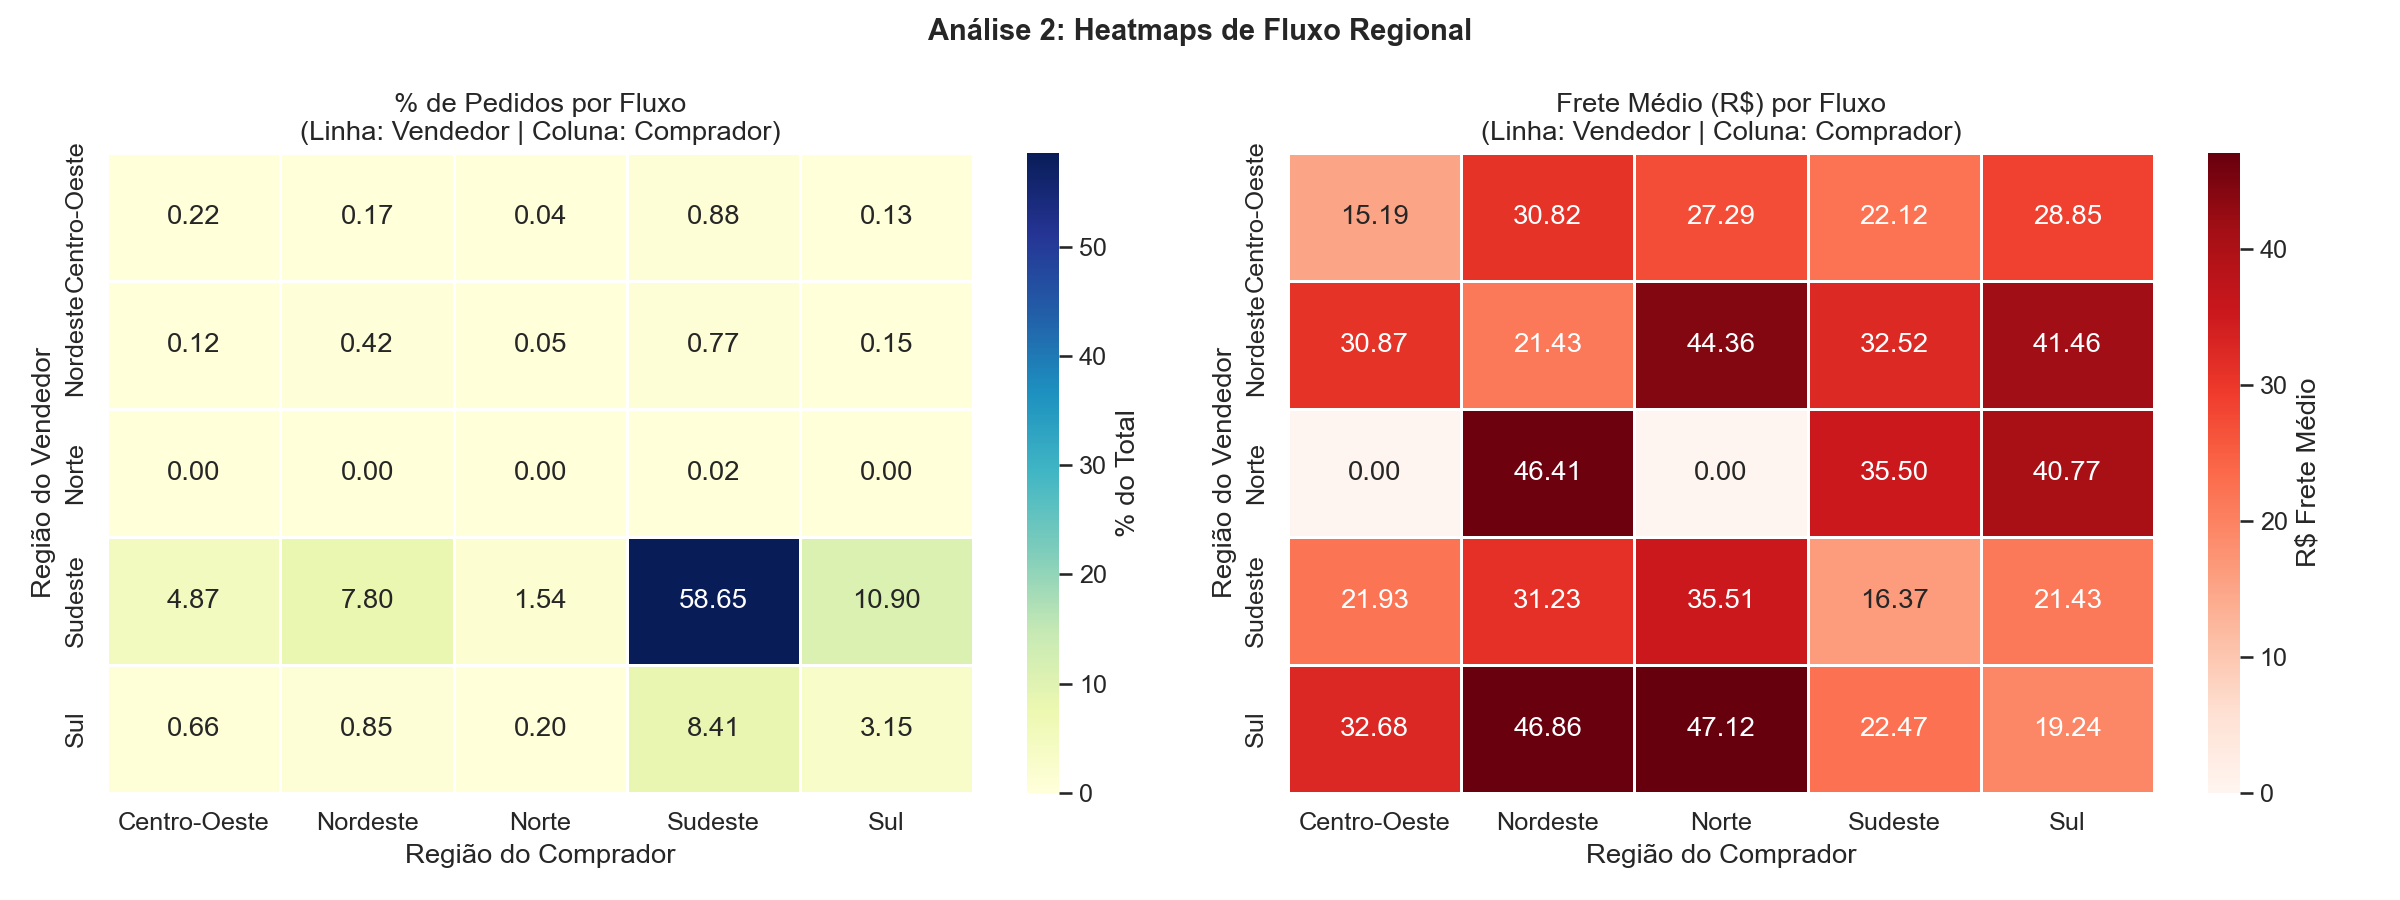
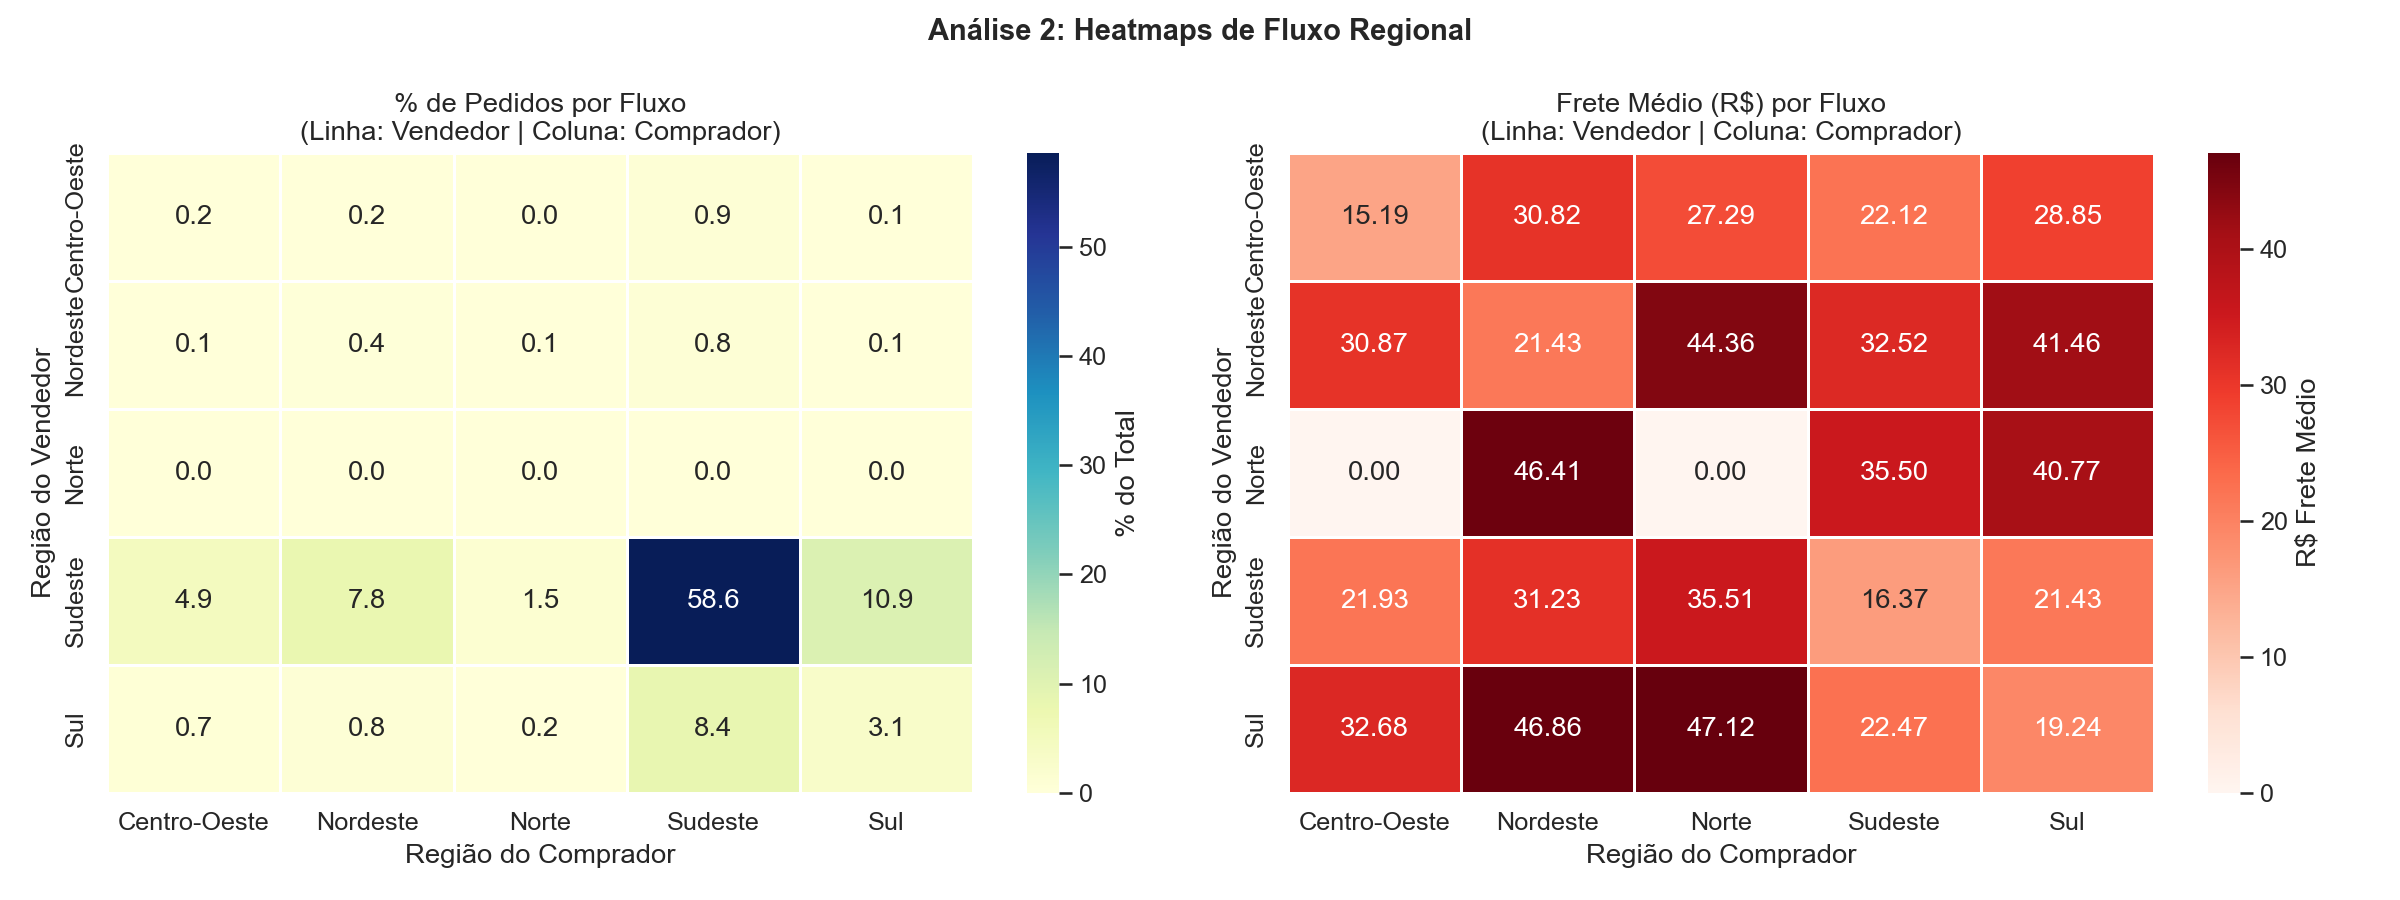
atualização

diff --git a/analise_regional.py b/analise_regional.py
@@ -1,3 +1,4 @@
+import sys
 import pandas as pd
 import numpy as np
 import matplotlib.pyplot as plt
@@ -5,6 +6,7 @@ import matplotlib.ticker as mticker
 import seaborn as sns
 import os
 from src.utils import get_region
+
 # ==============================================================================
 # CARGA E PROCESSAMENTO DOS DADOS
 # ==============================================================================
@@ -101,9 +103,10 @@ def analise_fluxo_e_frete(df):
     print("ANÁLISE 2: Fluxo de Frete entre Regiões (Top 10 por volume)")
     print("="*60)
     print(fluxo.sort_values('total_vendas', ascending=False).head(10).to_string(index=False))
+    print("\n--- Fluxo Regional Completo ---")
+    print(fluxo.to_string(index=False))
     
     return fluxo
-
 
 # ==============================================================================
 # ANÁLISE 3: FRETE COMO FATOR DE ESCOLHA POR PROXIMIDADE
@@ -125,11 +128,11 @@ def analise_influencia_frete_proximidade(df):
     print("ANÁLISE 3: Frete Médio e Ratio Frete/Preço (Intra vs Inter)")
     print("Quanto maior o ratio, mais o frete 'pesa' no preço final.")
     print("="*60)
-    print(comparacao.sort_values(['customer_region', 'tipo_compra']).to_string(index=False))
+    print(comparacao.sort_values(['regiao_cliente', 'tipo_compra']).to_string(index=False))
+    print("\n--- Comparação Completa de Influência do Frete ---")
+    print(comparacao.to_string(index=False))
     
     return comparacao
-
-
 # ==============================================================================
 # VISUALIZAÇÕES
 # ==============================================================================